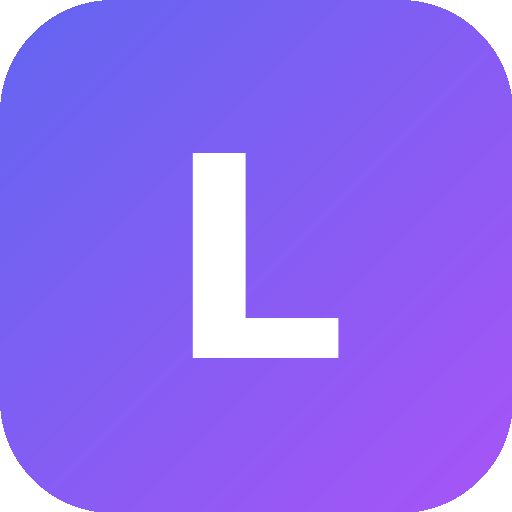
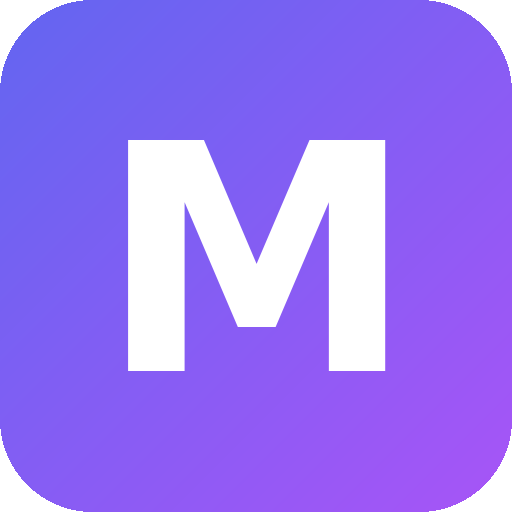
Add files via upload

diff --git a/index.html b/index.html
@@ -4,7 +4,7 @@
 <meta charset="UTF-8">
 <meta name="viewport" content="width=device-width, initial-scale=1.0, viewport-fit=cover">
 <meta name="theme-color" content="#4f46e5">
-<title>LinkTasks — Agency Task Manager</title>
+<title>Metaperch — Agency Task Manager</title>
 <link rel="manifest" href="manifest.json">
 <link rel="apple-touch-icon" href="icon-192.png">
 <style>
@@ -231,8 +231,8 @@
 
 <!-- ===== Onboarding (pick your name) ===== -->
 <div class="onboard" id="onboard">
-  <div class="logo-lg">L</div>
-  <h2>LinkTasks</h2>
+  <div class="logo-lg">M</div>
+  <h2>Metaperch</h2>
   <p>Task manager for your link building team.<br>Who are you?</p>
   <div class="team-grid" id="teamGrid"></div>
   <div class="field" style="text-align:left">
@@ -244,8 +244,8 @@
 
 <!-- ===== Login (cloud) ===== -->
 <div class="onboard hidden" id="login">
-  <div class="logo-lg">L</div>
-  <h2>LinkTasks</h2>
+  <div class="logo-lg">M</div>
+  <h2>Metaperch</h2>
   <p>Sign in to your team account.</p>
   <div class="field" style="text-align:left">
     <label>User ID</label>
@@ -261,8 +261,8 @@
 
 <!-- ===== App bar ===== -->
 <div class="appbar">
-  <div class="logo">L</div>
-  <h1>LinkTasks<small id="teamSub">Link Building Agency</small></h1>
+  <div class="logo">M</div>
+  <h1>Metaperch<small id="teamSub">Link Building Agency</small></h1>
   <span class="syncpill" id="syncPill">…</span>
   <button class="chatbtn" id="chatBtn" title="Team Chat">💬</button>
   <button class="mgrbtn hidden" id="mgrBtn" title="Manager Panel">⚙ Manager</button>
@@ -978,7 +978,7 @@ function checkReminders(){
   const sentKey="lt_notified_"+new Date().toDateString();
   if(due.length && !localStorage.getItem(sentKey)){
     localStorage.setItem(sentKey,"1");
-    new Notification("LinkTasks — "+due.length+" task(s) due",{
+    new Notification("Metaperch — "+due.length+" task(s) due",{
       body:due.slice(0,3).map(t=>"• "+t.title).join("\n"),icon:"icon-192.png"});
   }
 }

diff --git a/sw.js b/sw.js
@@ -1,5 +1,5 @@
-// LinkTasks service worker — offline app shell caching
-const CACHE = "linktasks-v16";
+// Metaperch service worker — offline app shell caching
+const CACHE = "metaperch-v17";
 // Relative paths resolve against the SW's own location (works on any host/sub-path)
 const ASSETS = ["./index.html", "./manifest.json", "./icon-192.png", "./icon-512.png"];
 